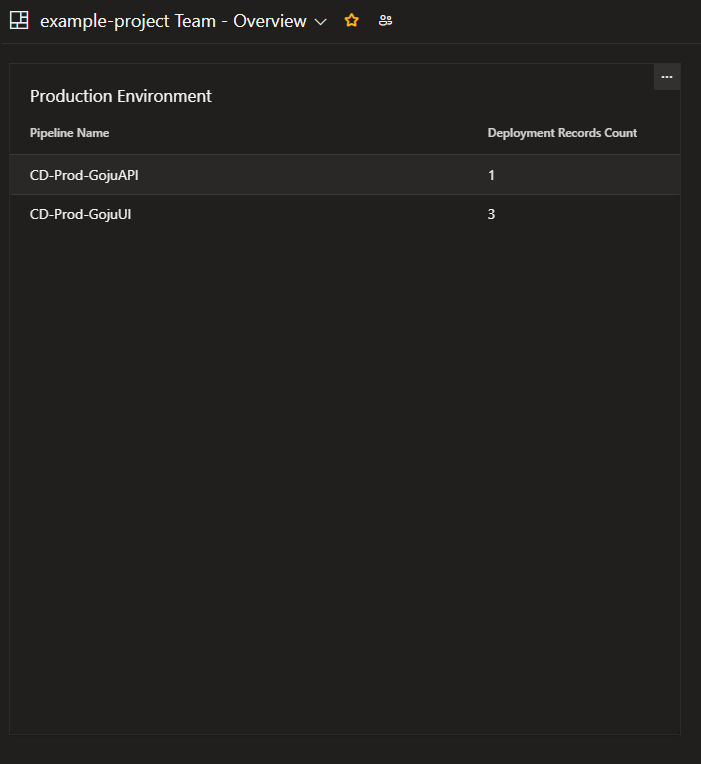
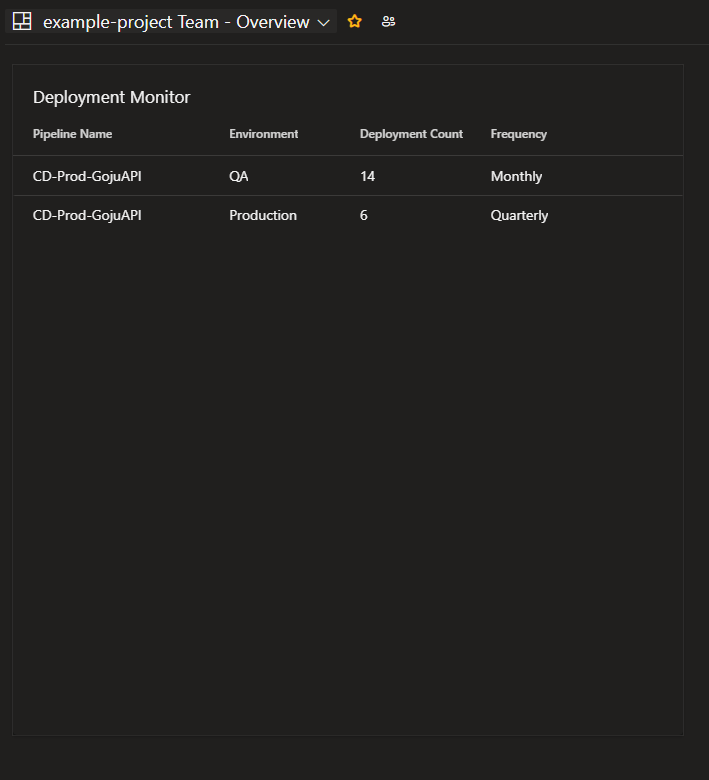
Track deployment frequency

diff --git a/src/deployment-monitor-widget/utility.ts b/src/deployment-monitor-widget/utility.ts
@@ -7,7 +7,6 @@ import {
 import { EnvironmentClient } from "./environment-client";
 import { EnvironmentDetails } from "./environment-details";
 import { Environment } from "./environment";
-import { EnvironmentDeploymentRecord } from "./environment-deployment-record";
 
 async function getCurrentProjectId(): Promise<string | undefined> {
   const pps = await SDK.getService<IProjectPageService>(
@@ -39,9 +38,15 @@ export async function getDeploymentRecords(
     ).getAllDeploymentRecords(projectId!, environment.id);
 
     const map = new Map<string, number>();
+    const oneYearAgo = new Date();
+    oneYearAgo.setFullYear(oneYearAgo.getFullYear() - 1);
 
-    for (let j = 0; j < deploymentRecords.length; j++) {
-      const key = deploymentRecords[j].definition.name;
+    const filteredDeploymentRecords = deploymentRecords.filter(
+      (d) => d.startTime > oneYearAgo
+    );
+
+    for (let j = 0; j < filteredDeploymentRecords.length; j++) {
+      const key = filteredDeploymentRecords[j].definition.name;
       const currentValue = map.get(key);
       if (currentValue) {
         map.set(key, currentValue + 1);
@@ -55,9 +60,28 @@ export async function getDeploymentRecords(
         name: key,
         environmentName: environment.name,
         deploymentRecordCount: value,
+        deploymentFrequency: convertQuantityToFrequency(value),
       });
     });
   }
 
   return result;
+}
+
+function convertQuantityToFrequency(quantity: number): string {
+  if (quantity === 1) {
+    return "Yearly";
+  } else if (quantity === 2) {
+    return "Every 6 months";
+  } else if (quantity > 2 && quantity < 7) {
+    return "Quarterly";
+  } else if (quantity >= 7 && quantity < 27) {
+    return "Monthly";
+  } else if (quantity >= 27 && quantity < 156) {
+    return "Weekly";
+  } else if (quantity >= 156) {
+    return "Daily";
+  } else {
+    return "Unknown";
+  }
 }

diff --git a/src/deployment-monitor-widget/deployment-monitor-widget.tsx b/src/deployment-monitor-widget/deployment-monitor-widget.tsx
@@ -44,6 +44,7 @@ class DeploymentMonitorWidget extends React.Component<{}, IDeploymentMonitorWidg
       name: environmentDetail.name,
       environment: environmentDetail.environmentName,
       deploymentCount: environmentDetail.deploymentRecordCount,
+      deploymentFrequency: environmentDetail.deploymentFrequency,
     }));
 
     const sortingBehavior = new ColumnSorting<ITableItem>(
@@ -140,6 +141,7 @@ export interface ITableItem extends ISimpleTableCell {
   name: string;
   environment: string;
   deploymentCount: number;
+  deploymentFrequency: string;
 }
 
 const columns: ITableColumn<ITableItem>[] = [
@@ -152,7 +154,7 @@ const columns: ITableColumn<ITableItem>[] = [
       ariaLabelAscending: "Sorted A to Z",
       ariaLabelDescending: "Sorted Z to A",
     },
-    width: new ObservableValue(-35),
+    width: new ObservableValue(-30),
   },
   {
     id: "environment",
@@ -163,18 +165,28 @@ const columns: ITableColumn<ITableItem>[] = [
       ariaLabelAscending: "Sorted A to Z",
       ariaLabelDescending: "Sorted Z to A",
     },
-    width: new ObservableValue(-30),
+    width: new ObservableValue(-20),
   },
   {
     id: "deploymentCount",
-    maxWidth: 300,
-    name: "Deployment Records Count",
+    name: "Deployment Count",
     readonly: true,
     renderCell: renderSimpleCell,
     sortProps: {
       ariaLabelAscending: "Sorted low to high",
       ariaLabelDescending: "Sorted high to low",
     },
-    width: new ObservableValue(-35),
-  }
+    width: new ObservableValue(-20),
+  },
+  {
+    id: "deploymentFrequency",
+    name: "Frequency",
+    readonly: true,
+    renderCell: renderSimpleCell,
+    sortProps: {
+      ariaLabelAscending: "Sorted A to Z",
+      ariaLabelDescending: "Sorted Z to A",
+    },
+    width: new ObservableValue(-30),
+  },
 ];

diff --git a/src/widget-configuration/widget-configuration.tsx b/src/widget-configuration/widget-configuration.tsx
@@ -74,7 +74,7 @@ class SampleWidgetConfig
                       ]}
                       items={environmentListItems}
                       selection={this.environmentsSelection}
-                      placeholder="Select projects"
+                      placeholder="Select environments"
                       showFilterBox={true}
                       onSelect={this.onSelectMultiple}
                     />

diff --git a/src/deployment-monitor-widget/environment-details.ts b/src/deployment-monitor-widget/environment-details.ts
@@ -2,4 +2,5 @@ export interface EnvironmentDetails {
   name: string;
   environmentName: string;
   deploymentRecordCount: number;
+  deploymentFrequency: string;
 }

diff --git a/README.md b/README.md
@@ -1,6 +1,7 @@
 # Deployment Monitor
 
-This extension provides clear analytics on your environment usage. It adds a widget to your Dashboard that shows how many times your application is deployed to each environment.
+Deployment frequency is one of the key DORA metrics, and it enables you to measure your team's velocity. This extension adds a widget to your Dashboard that shows how often and how many times your application is deployed to each environment.
+To learn more about DORA, checkout [this article](https://dora.dev/guides/dora-metrics-four-keys/).
 
 ## Preview
 
@@ -9,6 +10,11 @@ This extension provides clear analytics on your environment usage. It adds a wid
 ## Install
 
 The extension can be installed from [Azure DevOps Marketplace](https://marketplace.visualstudio.com/items?itemName=danilocolombi.deployment-monitor).
+
+## Calculation
+This extension calculates the deployment frequency based on the number of deployments records of a given environment in the last year, and it uses the below rule from [this article](https://cloud.google.com/blog/products/devops-sre/using-the-four-keys-to-measure-your-devops-performance) to determine the frequency:
+
+"Deployment Frequency falls into the Daily bucket when the median number of days per week with at least one successful deployment is equal to or greater than three. To put it more simply, to qualify for “deploy daily,” you must deploy on most working days. Similarly, if you deploy most weeks, it will be weekly, and then monthly and so forth."
 
 ## Contributing
 
